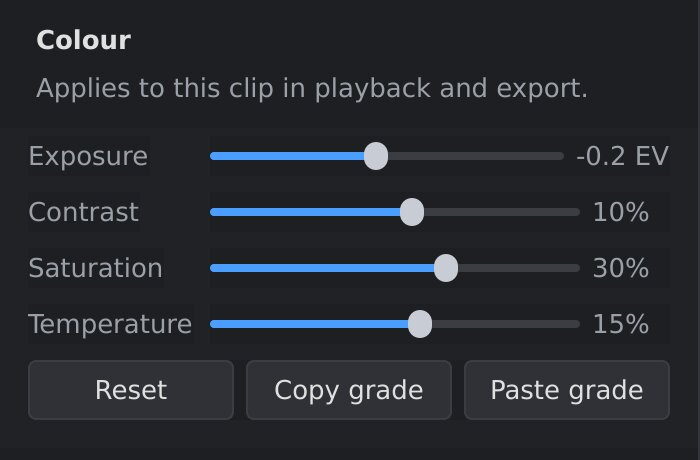
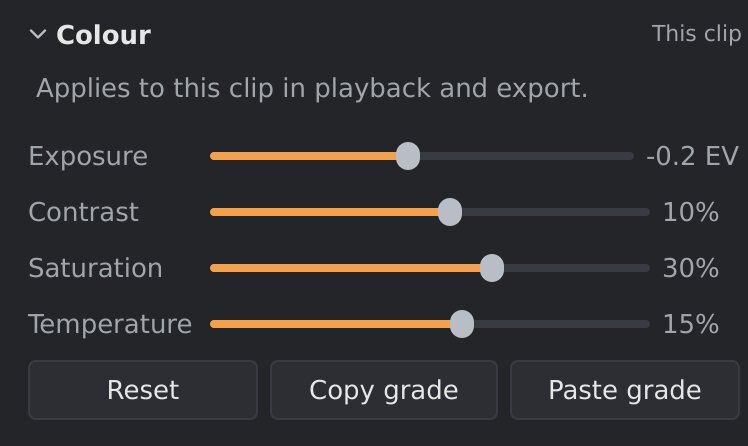
docs: check the manual against the redesigned window and retake its screenshots
Every chapter was checked against the app's menus, labels, messages and
shortcuts; the few slips are fixed (the voice modes' package on Ubuntu,
a heading, a "panel" left over). All screenshots of the window are
retaken in the Ember theme: the main window and timeline with new
callouts for the player bar, media sidebar and Camera mic track, the
settings sidebar's sections, menus, dialogs, and a new picture of the
project library. Icon crops are retaken, with new ones for the player
bar, the timeline's zoom and the sidebar tabs.

diff --git a/docs/manual/main-window.md b/docs/manual/main-window.md
@@ -11,16 +11,15 @@ With one open, it looks like this:
 ![The orbis-reframe window with a project open](images/main-window.jpg)
 
 1. The **viewport**: the picture.
-2. The **timeline**: your clips, overlays and audio, in time order.
-3. The **edit toolbar**: trim, split and keyframe buttons, and the timeline's zoom.
-4. The **settings sidebar**, here on its **Video** tab.
-5. The settings sidebar's **tabs**.
-
-Directly under the viewport is the **player bar**, for watching: play,
-step, jump, the progress bar, speed, volume and full screen; see
-[The player bar](#the-player-bar) below. To the left of the viewport is the
-**left sidebar**, with the project's media; see
-[The media sidebar](#the-media-sidebar) below.
+2. The **player bar**, for watching: play, step, jump, the progress bar,
+   speed, volume and full screen; see [The player bar](#the-player-bar).
+3. The **media sidebar**, with the project's media; see
+   [The media sidebar](#the-media-sidebar).
+4. The **edit toolbar**: trim, split and keyframe buttons, and the
+   timeline's zoom.
+5. The **timeline**: your clips, overlays and audio, in time order.
+6. The **settings sidebar**, here on its **Video** tab.
+7. The settings sidebar's **tabs**.
 
 The title bar shows the project's file name, or *untitled* for a project
 that hasn't been saved yet. A `*` after the name means there are unsaved
@@ -47,7 +46,7 @@ follow a view, you set **reframe keyframes**, covered in
 ## The media sidebar
 
 The sidebar on the left of the viewport holds the files you work with. For
-now it has one tab, **Media**. The `<` button at its top-left closes the
+now it has one tab, **Media** (<img src="images/icons/tab-media.png" width="24" alt="">). The `<` button at its top-left closes the
 sidebar and leaves a slim strip at the window's edge; the `>` button on the
 strip opens it again. `Ctrl+B` does both. To make it wider or narrower,
 for example to read long file names, drag its right edge (the pointer
@@ -67,8 +66,8 @@ to fold it away.
 
 | To | Do |
 |---|---|
-| Add files | **Media ▸ Import files…** (`Ctrl+I`), the first button at the top of the tab, or drag files from your file manager onto the list. |
-| Add everything in a folder | **Media ▸ Import folder…**, the second button, or drag the folder onto the list. Every video and audio file directly in it is added (not its subfolders). |
+| Add files | **Media ▸ Import files…** (`Ctrl+I`), the first button at the top of the tab (<img src="images/icons/import-files.png" width="24" alt="">), or drag files from your file manager onto the list. |
+| Add everything in a folder | **Media ▸ Import folder…**, the second button (<img src="images/icons/import-folder.png" width="24" alt="">), or drag the folder onto the list. Every video and audio file directly in it is added (not its subfolders). |
 | Put a file on the timeline | Drag it onto the timeline, or double-click it. A 360° clip goes onto the video track, a video onto an overlay track, an audio file onto an audio track; see [The timeline](timeline.md). You can select several files and drag them together. |
 | Remove a file from the project | Right-click it and choose **Remove from project**, or press `Delete`. The file itself isn't deleted. A file used on the timeline can't be removed. |
 | Find a file on disk | Right-click it and choose **Show in file manager**. |
@@ -138,9 +137,9 @@ does:
 
 | Button | What it does |
 |---|---|
-| To start / to end | To the start / end of the timeline (`Home` / `End`). |
-| Previous / next cut | To the previous / next cut or clip edge (`↑` / `↓`). |
-| One frame back / forward | Steps one frame and pauses (`←` / `→`). Hold the button to keep stepping. |
+| <img src="images/icons/to-start.png" width="24" alt=""> <img src="images/icons/to-end.png" width="24" alt=""> To start / to end | To the start / end of the timeline (`Home` / `End`). |
+| <img src="images/icons/previous-cut.png" width="24" alt=""> <img src="images/icons/next-cut.png" width="24" alt=""> Previous / next cut | To the previous / next cut or clip edge (`↑` / `↓`). |
+| <img src="images/icons/frame-back.png" width="24" alt=""> <img src="images/icons/frame-forward.png" width="24" alt=""> One frame back / forward | Steps one frame and pauses (`←` / `→`). Hold the button to keep stepping. |
 | <img src="images/icons/play.png" width="24" alt=""> Play / pause | Starts or stops playback (`Space`). |
 
 On the left, *Buffering…* shows while the video loads. On the right:
@@ -148,8 +147,8 @@ On the left, *Buffering…* shows while the video loads. On the right:
 | Button | What it does |
 |---|---|
 | <img src="images/icons/screenshot.png" width="24" alt=""> Screenshot | Saves the frame the viewport shows (the frame at the playhead) as a PNG (`Ctrl+Shift+P`); see [Screenshots](projects-and-export.md#screenshots). |
-| Volume and mute | How loud the preview plays, and the speaker button to mute it. Only what you hear while editing: the export and the clips' own volume (the **Audio** tab) don't change. orbis-reframe remembers the volume for the next time. |
-| Full screen | Shows only the picture and the player bar, over the whole screen (`F11`, or double-click the picture). The player bar hides when the mouse rests and comes back when you move it. `Esc` or `F11` leaves full screen. |
+| <img src="images/icons/volume.png" width="24" alt=""> Volume and mute | How loud the preview plays, and the speaker button to mute it. Only what you hear while editing: the export and the clips' own volume (the **Audio** tab) don't change. orbis-reframe remembers the volume for the next time. |
+| <img src="images/icons/full-screen.png" width="24" alt=""> Full screen | Shows only the picture and the player bar, over the whole screen (`F11`, or double-click the picture). The player bar hides when the mouse rests and comes back when you move it. `Esc` or `F11` leaves full screen. |
 
 Hover over a button to see its name and shortcut.
 
@@ -172,9 +171,9 @@ At its right end are the timeline's zoom buttons:
 
 | Button | What it does |
 |---|---|
-| Zoom out | Shows more of the timeline (`Ctrl+-`). |
-| Zoom to fit | Shows the whole edit across the timeline (`Ctrl+0`). |
-| Zoom in | Shows less of the timeline, in more detail (`Ctrl++`). |
+| <img src="images/icons/zoom-out.png" width="24" alt=""> Zoom out | Shows more of the timeline (`Ctrl+-`). |
+| <img src="images/icons/zoom-fit.png" width="24" alt=""> Zoom to fit | Shows the whole edit across the timeline (`Ctrl+0`). |
+| <img src="images/icons/zoom-in.png" width="24" alt=""> Zoom in | Shows less of the timeline, in more detail (`Ctrl++`). |
 
 Hover over a button to see its name and shortcut.
 
@@ -192,10 +191,10 @@ key of the tab that's already showing closes the sidebar.
 
 | Tab | What it sets |
 |---|---|
-| **Video** | Everything about the picture, in the order you'd usually work: **Stitching** (how the camera's two lenses are joined into one picture), **Stabilization** (smoothing out camera shake, keeping the horizon level), **Reframe** (the view: angles and field of view, keyframes, and **Track subject**, which follows a person or vehicle automatically), **Colour** (exposure, contrast, saturation and other colour corrections) and **Media information** (details of the clip's file, read only; see [Media information](media-information.md)). |
-| **Audio** | A section per audio clip: the selected one, or all of a video or overlay clip's sound (*Camera mic*, *External mic*). Noise and wind reduction, its volume and its track's, fades. See [Audio and noise reduction](audio.md). |
-| **Overlay** | Size, position and look of the selected picture-in-picture clip. |
-| **Privacy** | Blurring number plates. |
+| <img src="images/icons/tab-video.png" width="24" alt=""> **Video** | Everything about the picture, in the order you'd usually work: **Stitching** (how the camera's two lenses are joined into one picture), **Stabilization** (smoothing out camera shake, keeping the horizon level), **Reframe** (the view: angles and field of view, keyframes, and **Track subject**, which follows a person or vehicle automatically), **Colour** (exposure, contrast, saturation and other colour corrections) and **Media information** (details of the clip's file, read only; see [Media information](media-information.md)). |
+| <img src="images/icons/tab-audio.png" width="24" alt=""> **Audio** | A section per audio clip: the selected one, or all of a video or overlay clip's sound (*Camera mic*, *External mic*). Noise and wind reduction, its volume and its track's, fades. See [Audio and noise reduction](audio.md). |
+| <img src="images/icons/tab-overlay.png" width="24" alt=""> **Overlay** | Size, position and look of the selected picture-in-picture clip. |
+| <img src="images/icons/tab-privacy.png" width="24" alt=""> **Privacy** | Blurring number plates. |
 
 Each tab is made of **sections**, such as **Stabilization** or **Colour**.
 Click a section's title to fold it away to just its title row, and again to

diff --git a/docs/manual/getting-started.md b/docs/manual/getting-started.md
@@ -294,7 +294,7 @@ Start orbis-reframe from a terminal so you can see its messages.
 | At startup: *"Your graphics card or driver can't decode video on the GPU"* | The card or driver has no Vulkan video decoding. orbis-reframe still works, but decodes on the processor, so 5.7K and 8K clips play slowly. Update the NVIDIA driver; cards older than the GTX 16 / RTX 20 series can't decode on the GPU. |
 | At startup or on export: *"Exporting needs NVIDIA's hardware video encoder (NVENC)"* | Install `libnvidia-encode1` (step 2). Without an NVIDIA card, exporting isn't possible yet. |
 | **Track subject** or **Scan clip** is greyed out, with *"… model, which is missing"* under it | A file from the download is missing. Install or unpack orbis-reframe again. |
-| Choosing **Voice only** says *"The voice modes can't run on this computer"* | Install `libonnxruntime1.21` (Debian 13) or `libonnxruntime1.23` (Testing), as the message says (step 3, option B). If the message mentions the model, unpack or install orbis-reframe again. |
+| Choosing **Voice only** says *"The voice modes can't run on this computer"* | Install `libonnxruntime1.21` (Debian 13) or `libonnxruntime1.23` (Testing, Ubuntu 26.04), as the message says (step 3, option B). If the message mentions the model, unpack or install orbis-reframe again. |
 | The window stays black, or the clip never leaves *Buffering…* | Start with `ORBIS_VERBOSE=1 orbis-reframe` and look at the messages, and check **Help ▸ About** (below). |
 | No sound | Check that `libqt6multimedia6` is installed and that the system's sound works in other programs. To send orbis-reframe's sound to another output, use your desktop's sound settings or `pavucontrol`. |
 

diff --git a/docs/manual/media-information.md b/docs/manual/media-information.md
@@ -56,7 +56,7 @@ the data rate.
 | **Serial** | The camera's serial number. Blur it out if you share a screenshot of this section. |
 | **Firmware** | The camera's software version at the time of recording. |
 | **Motion data** | How often the camera recorded its movement, which [stabilization](stabilization.md) works from: about 1000 times a second on the X5. *Not recorded* means stabilization can't work for this clip. |
-| **GPS** | Whether a GPS source, such as Insta360's GPS remote, recorded where you were: how often the position was updated (about once a second), or *Not recorded*. A second line says when the track covers only part of the recording, for example because the signal was lost, or *no position fix* if the GPS never found its position. The positions themselves aren't shown, so a screenshot of the panel doesn't give away where you rode. |
+| **GPS** | Whether a GPS source, such as Insta360's GPS remote, recorded where you were: how often the position was updated (about once a second), or *Not recorded*. A second line says when the track covers only part of the recording, for example because the signal was lost, or *no position fix* if the GPS never found its position. The positions themselves aren't shown, so a screenshot of the section doesn't give away where you rode. |
 | **Sensor readout** | How long the camera's sensor takes to read one picture from top to bottom (the rolling shutter). orbis-reframe uses it to straighten the picture during fast movement. |
 
 ## When it's useful

diff --git a/docs/manual/timeline.md b/docs/manual/timeline.md
@@ -6,17 +6,19 @@ cutting the 360° clips, and adding music, other sound and picture-in-picture
 overlays. For the names of the window's parts, see
 [The main window](main-window.md).
 
-![The timeline with an overlay track, three clips and a music track](images/timeline.jpg)
+![The timeline with three clips and their sound, a music track and an overlay track](images/timeline.jpg)
 
 1. The **ruler**, with the time in minutes and seconds.
 2. The **playhead**: the frame shown in the viewport.
-3. An **overlay track**, with a picture-in-picture clip.
-4. The **video track**, with your `.insv` clips. The white diamonds along
+3. The **video track**, with your `.insv` clips. The white diamonds along
    the bottom edge are reframe keyframes; a hollow diamond (◇) before a
    clip's name means it has none, and exports looking straight ahead.
+4. The **Camera mic** track: the clips' sound, linked to them (the chain
+   icon).
 5. An **audio track**, with a music file. The waveform shows how loud it
    is, and the slanted lines at its ends are fades.
-6. The **track headers**: each track's name and its **M** (mute) or **H**
+6. An **overlay track**, with a picture-in-picture clip.
+7. The **track headers**: each track's name and its **M** (mute) or **H**
    (hide) box. An overlay track also shows its layer number (1 is in
    front).
 

diff --git a/docs/manual/projects-and-export.md b/docs/manual/projects-and-export.md
@@ -22,6 +22,8 @@ name, when it was last opened, and how many clips it has and how long it
 is. A card says so in red when the project's file is gone, can't be read,
 or some of its media files are missing.
 
+![The project library with three projects](images/project-library.jpg)
+
 | To | Do |
 |---|---|
 | Open a project | Double-click its card, or select it and press `Enter`. |
@@ -131,7 +133,7 @@ unsaved change, and your unsaved edits stay unsaved.
 
 ## Project settings
 
-<img src="images/project-panel.jpg" width="350" alt="The project settings">
+<img src="images/project-settings.jpg" width="444" alt="The Project settings dialog">
 
 **File ▸ Project settings…** sets the shape, size and frame rate of the
 video you make. A new project gets them from **File ▸ New project…**; this

diff --git a/docs/manual/reframing.md b/docs/manual/reframing.md
@@ -9,8 +9,9 @@ following a person or vehicle.
 
 ![Setting a keyframe: reframe authoring armed, the Reframe section, and the keyframes on the clip](images/reframing.jpg)
 
-1. **Arm reframe authoring**, in the edit toolbar. While it's on (shown
-   pressed), every look-around in the viewport sets a keyframe.
+1. The edit toolbar, with **Arm reframe authoring** on: the button
+   outlined in orange. While it's on, every look-around in the viewport
+   sets a keyframe.
 2. The **Reframe** section: the view at the playhead as numbers, and
    **Track subject…**.
 3. The clip's keyframes: the white diamonds along the bottom of the clip.

diff --git a/docs/manual/stitching.md b/docs/manual/stitching.md
@@ -74,7 +74,7 @@ The **Stitching** section shows the state for the clip under the playhead:
 Changing **Lens guards** measures every clip again, because the alignment
 depends on the lens model.
 
-## Preview size and Quality
+## Preview size and quality
 
 These two are in the **View** menu, not in the sidebar: they change only the
 preview you see while editing, never the export.
